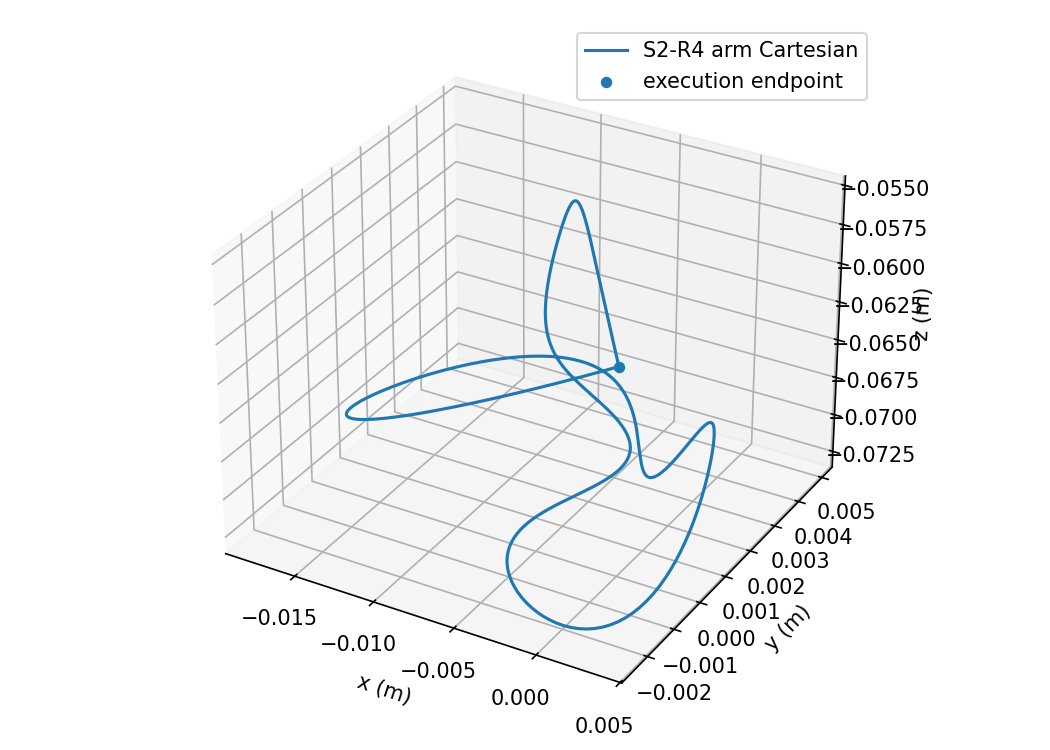
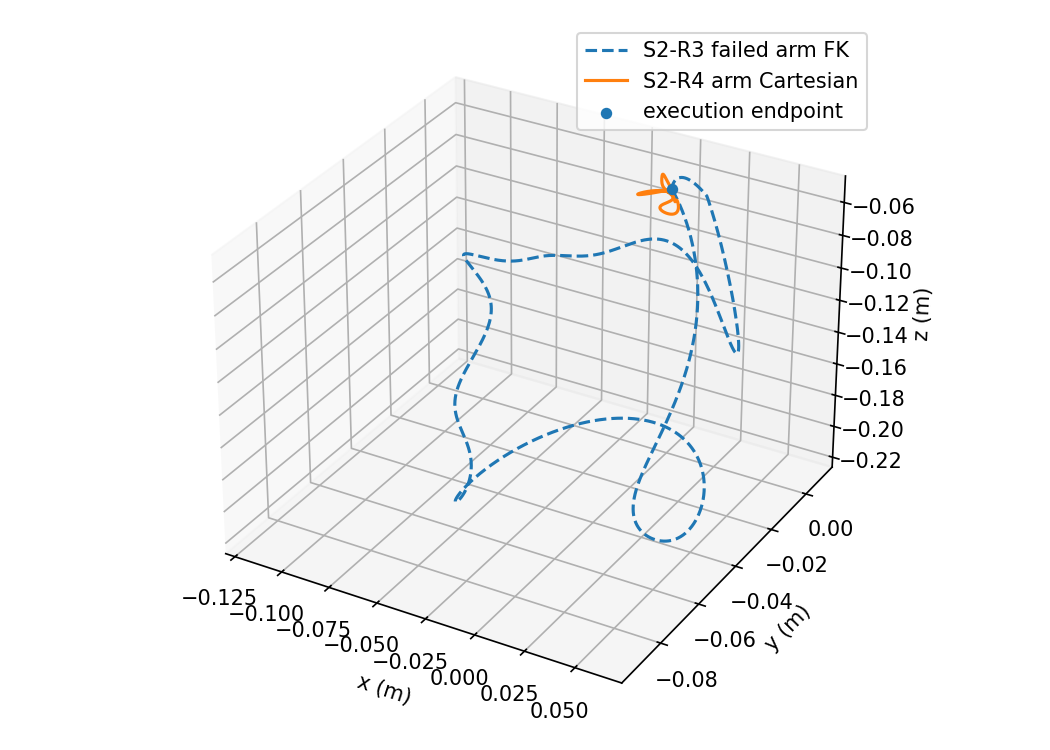
Fix S2-R4 comparison visual evidence

diff --git a/scripts/visualize_s2_r4_execution.py b/scripts/visualize_s2_r4_execution.py
@@ -9,6 +9,9 @@ import matplotlib.pyplot as plt
 import numpy as np
 from matplotlib.animation import FuncAnimation, PillowWriter
 
+from planner_bridge.execution.official_delta_kinematics import official_fk_joint_state
+from planner_bridge.execution.playback_validator import sample_raw, validate_kinematics
+
 ROOT = Path(__file__).resolve().parents[1]
 OUT = ROOT / "docs/evidence/S2-R4/visuals"
 RUNTIME = ROOT / "docs/evidence/S2-R4/runtime"
@@ -51,18 +54,30 @@ def main() -> int:
     d = load_run("nominal_run_01")
     r = load_run("nominal_repeat_run_01")
     old = np.loadtxt(OLD_Q, delimiter=",", skiprows=1)
+    new_arm_raw = sample_raw(RUNTIME / "nominal_run_01/trajectory_arm.json", 800, arm=True)
+    new_q = validate_kinematics(new_arm_raw)[0]["q"]
+    old_arm = np.asarray([official_fk_joint_state(row[1:4]) for row in old], dtype=float)
     val = json.loads(VAL.read_text(encoding="utf-8"))
     nominal = val["variants"]["nominal"]["rates"]["800"]
 
     fig = plt.figure(figsize=(7, 5)); ax = fig.add_subplot(111, projection="3d")
+    ax.plot(old_arm[:, 0], old_arm[:, 1], old_arm[:, 2], "--", label="S2-R3 failed arm FK")
     ax.plot(d["arm"][:, 0], d["arm"][:, 1], d["arm"][:, 2], label="S2-R4 arm Cartesian")
     ax.scatter([0], [0], [-0.06], label="execution endpoint")
     ax.set(xlabel="x (m)", ylabel="y (m)", zlabel="z (m)"); ax.legend(); save(fig, "01_failure_vs_replan_3d.png")
 
-    fig, ax = plt.subplots(figsize=(7, 4)); ax.plot(d["arm"][:, 0], d["arm"][:, 2], label="replanned arm envelope path"); ax.axhline(-0.06, color="k", ls="--", lw=.7); ax.set(xlabel="x (m)", ylabel="z (m)"); ax.legend(); save(fig, "02_arm_envelope.png")
+    env = json.loads((ROOT / "docs/evidence/S2-R4/arm_envelope/envelope_summary.json").read_text(encoding="utf-8"))
+    fig, ax = plt.subplots(figsize=(7, 4));
+    ax.plot(d["arm"][:, 0], d["arm"][:, 2], label="S2-R4 path")
+    for key, style in (("hard_envelope", "k-"), ("preferred_envelope", "g--"), ("robust_envelope", "b:")):
+        box = env[key]; lo, hi = box["cartesian_min_m"], box["cartesian_max_m"]
+        ax.plot([lo[0], hi[0], hi[0], lo[0], lo[0]], [lo[2], lo[2], hi[2], hi[2], lo[2]], style, label=key.replace("_", " "))
+    ax.set(xlabel="x (m)", ylabel="z (m)"); ax.legend(fontsize=7); save(fig, "02_arm_envelope.png")
 
     fig, ax = plt.subplots(figsize=(7, 4));
-    for j in range(3): ax.plot(old[:, 0], old[:, j + 1], ls="--", label=f"R3 q{j+1}"); ax.plot(d["ta"], np.interp(d["ta"], d["ta"], d["arm"][:, j]), label=f"R4 q{j+1} proxy")
+    for j in range(3):
+        ax.plot(old[:, 0], old[:, j + 1], ls="--", label=f"R3 q{j+1}")
+        ax.plot(new_arm_raw["time"], new_q[:, j], label=f"R4 q{j+1} official IK")
     ax.axhline(0, color="k", lw=.6); ax.axhline(np.pi / 2, color="k", lw=.6); ax.set(xlabel="time (s)", ylabel="q (rad)"); ax.legend(ncol=2, fontsize=7); save(fig, "03_q_before_after.png")
 
     fig = plt.figure(figsize=(7, 5)); ax = fig.add_subplot(111, projection="3d")
